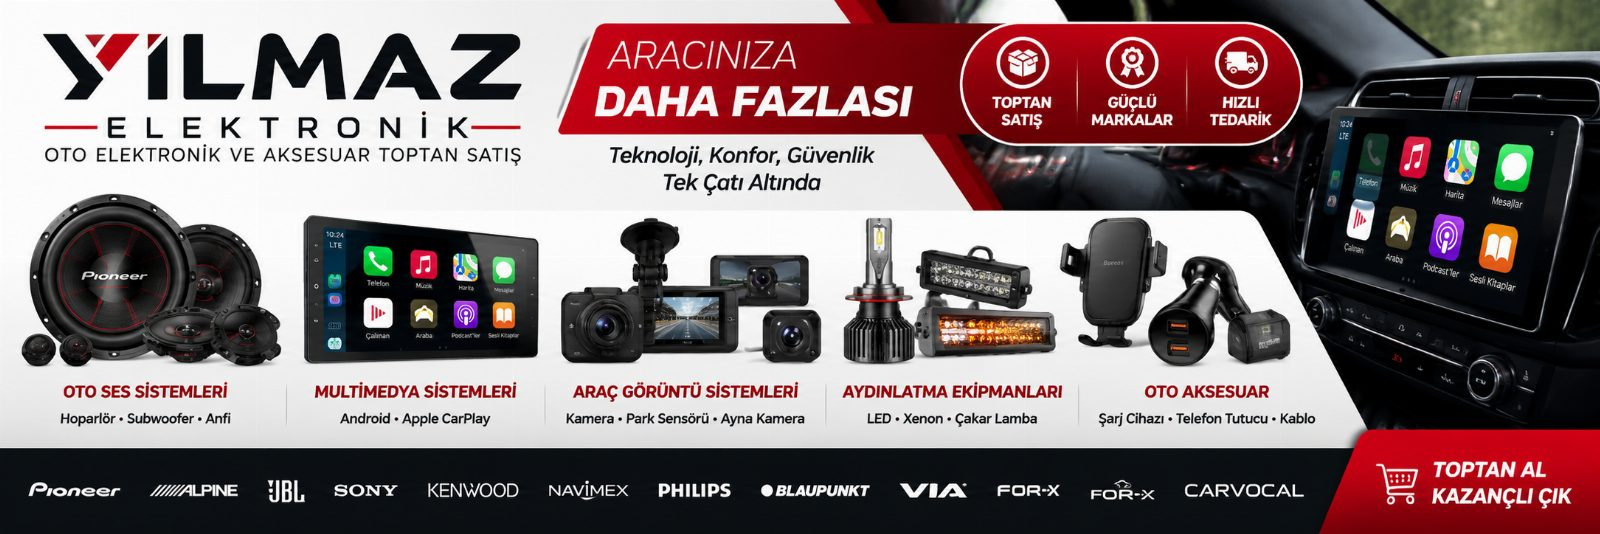
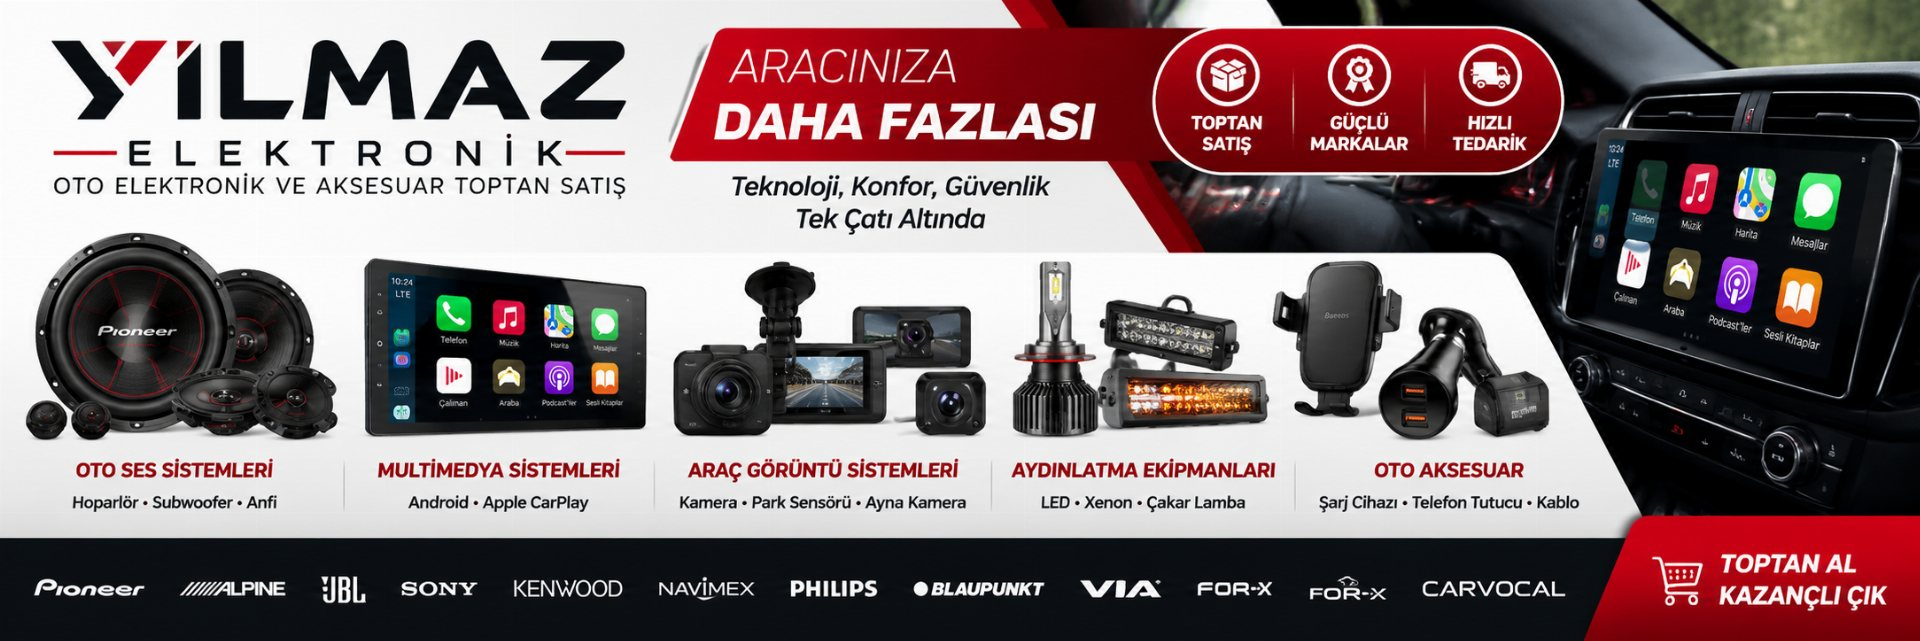
Kampanya slaytına üçüncü görsel ve sonsuz sağdan sola döngü
Banner alanı sayfa genişliğini dolduruyor; üç kampanya görseli durmadan kayıyor. Üstte Yılmaz Elektronik yazısı stacked logo olarak görünür.

diff --git a/assets/css/app.css b/assets/css/app.css
@@ -50,10 +50,49 @@ button, input, select, textarea { font: inherit; }
   align-items: center;
   padding: 10px 0;
 }
-.logo { display: flex; align-items: center; flex-shrink: 0; min-width: 210px; }
-.logo-mark { display: flex; flex-direction: row; align-items: baseline; gap: 8px; white-space: nowrap; line-height: 1; }
-.logo-mark b { font-size: 26px; letter-spacing: .04em; font-style: normal; color: #fff; font-weight: 800; }
-.logo-mark i { font-size: 22px; color: #e10600; font-style: normal; font-weight: 800; letter-spacing: .08em; }
+.logo {
+  display: flex;
+  align-items: center;
+  gap: 10px;
+  flex-shrink: 0;
+  min-width: 168px;
+  color: #fff;
+}
+.logo-badge {
+  width: 42px;
+  height: 42px;
+  border-radius: 50%;
+  background: #e10600;
+  color: #fff;
+  display: grid;
+  place-items: center;
+  font-weight: 800;
+  font-size: 20px;
+  letter-spacing: 0;
+  flex-shrink: 0;
+}
+.logo-mark {
+  display: flex;
+  flex-direction: column;
+  justify-content: center;
+  gap: 2px;
+  line-height: 1;
+}
+.logo-mark strong {
+  font-size: 20px;
+  letter-spacing: .14em;
+  font-style: normal;
+  color: #fff !important;
+  -webkit-text-fill-color: #fff;
+  font-weight: 800;
+}
+.logo-mark em {
+  font-size: 11px;
+  color: #e10600;
+  font-style: normal;
+  font-weight: 800;
+  letter-spacing: .18em;
+}
 .search {
   display: flex; background: #fff; border-radius: 999px; overflow: hidden; border: 0;
 }
@@ -93,31 +132,39 @@ button, input, select, textarea { font: inherit; }
 }
 .nav-inner .on, .nav-inner a:hover { background: rgba(255,255,255,.12); }
 
-.hero { margin: 14px auto; width: min(1180px, calc(100% - 24px)); }
+.hero {
+  width: 100%;
+  margin: 0 0 18px;
+  background: #0b0b12;
+}
 .hero-pop {
   position: relative;
   width: 100%;
   overflow: hidden;
-  border-radius: 14px;
-  background: #fff;
-  box-shadow: var(--shadow);
+  border-radius: 0;
+  background: #0b0b12;
+  height: clamp(200px, 34vw, 520px);
 }
 .hero-track {
   display: flex;
+  height: 100%;
   width: 100%;
-  transition: transform .7s ease-in-out;
+  transition: transform .8s ease-in-out;
+  will-change: transform;
 }
 .hero-slide {
   flex: 0 0 100%;
   width: 100%;
+  height: 100%;
   margin: 0;
   display: block;
 }
 .hero-slide img {
   width: 100%;
-  height: auto;
+  height: 100%;
   display: block;
   object-fit: cover;
+  object-position: center center;
 }
 .cat-strip { display: grid; grid-template-columns: repeat(4, 1fr); gap: 12px; margin: 8px auto 22px; }
 .cat-tile {
@@ -229,14 +276,14 @@ textarea { min-height: 80px; }
 footer.site { margin-top: 28px; padding: 24px 0 12px; color: #9aa3b2; font-size: 13px; text-align: center; }
 
 @media (max-width: 900px) {
-  .hero, .grid, .detail, .brands, .admin-hero, .head-inner, .cat-strip { grid-template-columns: 1fr 1fr; }
+  .grid, .detail, .brands, .admin-hero, .head-inner, .cat-strip { grid-template-columns: 1fr 1fr; }
   .head-inner { grid-template-columns: 1fr auto; }
   .search { grid-column: 1 / -1; }
   .topbar { display: none; }
   .grid { grid-template-columns: 1fr 1fr; }
-  .hero { grid-template-columns: 1fr; }
-  .logo-mark b { font-size: 20px; }
-  .logo-mark i { font-size: 16px; }
+  .logo-mark strong { font-size: 16px; }
+  .logo-mark em { font-size: 10px; }
+  .logo-badge { width: 36px; height: 36px; font-size: 16px; }
   .logo { min-width: 0; }
   .nav-inner { flex-wrap: wrap; overflow: visible; }
   .nav-inner button { flex: 1 1 25%; font-size: 11px; padding: 8px 4px; }

diff --git a/assets/js/app.js b/assets/js/app.js
@@ -75,20 +75,22 @@ function productCard(p) {
 
 function viewHome() {
   const campaigns = [
-    { img: APP.base + '/assets/img/banners/kampanya.jpg', href: '#/home' },
-    { img: APP.base + '/assets/img/banners/kampanya2.jpg', href: '#/home' },
+    { img: APP.base + '/assets/img/banners/kampanya.jpg' },
+    { img: APP.base + '/assets/img/banners/kampanya2.jpg' },
+    { img: APP.base + '/assets/img/banners/kampanya3.jpg' },
   ];
+  const slides = campaigns.concat(campaigns[0]);
   const catImg = (slug) => APP.base + '/assets/img/cats/' + slug + '.png';
   return `
-    <div class="hero wrap">
+    <section class="hero" aria-label="Kampanyalar">
       <div class="hero-pop" id="heroPop">
         <div class="hero-track" id="heroTrack">
-          ${campaigns.map((c) => `<a class="hero-slide" href="${c.href}">
+          ${slides.map((c) => `<div class="hero-slide">
             <img src="${c.img}" alt="Yılmaz Elektronik kampanya">
-          </a>`).join('')}
+          </div>`).join('')}
         </div>
       </div>
-    </div>
+    </section>
     <div class="wrap"><div class="section-title"><h2>Kategoriler</h2></div></div>
     <div class="cat-strip wrap">
       ${state.cats.map((c) => `<button class="cat-tile" onclick="location.hash='#/kategori/${c.slug}'"><img src="${catImg(c.slug)}" alt=""><span>${c.name}</span></button>`).join('')}
@@ -286,6 +288,7 @@ function bindView(page) {
 }
 
 let heroTimer = null;
+let heroOnEnd = null;
 function startHeroRotate() {
   if (heroTimer) {
     clearInterval(heroTimer);
@@ -294,12 +297,27 @@ function startHeroRotate() {
   const track = $('#heroTrack');
   const slides = $$('.hero-slide');
   if (!track || slides.length < 2) return;
+  if (heroOnEnd) track.removeEventListener('transitionend', heroOnEnd);
+  const last = slides.length - 1;
   let i = 0;
-  const show = (n) => {
-    i = (n + slides.length) % slides.length;
-    track.style.transform = 'translateX(-' + (i * 100) + '%)';
+  const apply = (n, instant) => {
+    if (instant) {
+      track.style.transition = 'none';
+      track.style.transform = 'translateX(-' + (n * 100) + '%)';
+      void track.offsetHeight;
+      track.style.transition = '';
+    } else {
+      track.style.transition = '';
+      track.style.transform = 'translateX(-' + (n * 100) + '%)';
+    }
+    i = n;
   };
-  heroTimer = setInterval(() => show(i + 1), 4500);
+  heroOnEnd = (e) => {
+    if (e.target !== track) return;
+    if (i >= last) apply(0, true);
+  };
+  track.addEventListener('transitionend', heroOnEnd);
+  heroTimer = setInterval(() => apply(i + 1, false), 4200);
 }
 
 function bindChrome() {

diff --git a/sw.js b/sw.js
@@ -2,14 +2,14 @@ const BASE = self.location.pathname.replace(/\/sw\.js$/, '') || '';
 
 self.addEventListener('install', (event) => {
   event.waitUntil(
-    caches.open('yilmaz-v2').then((cache) =>
+    caches.open('yilmaz-v3').then((cache) =>
       cache.addAll([
         BASE + '/',
         BASE + '/index.php',
         BASE + '/admin.php',
-        BASE + '/assets/css/app.css?v=3',
-        BASE + '/assets/js/app.js?v=3',
-        BASE + '/assets/js/admin.js?v=3',
+        BASE + '/assets/css/app.css?v=6',
+        BASE + '/assets/js/app.js?v=6',
+        BASE + '/assets/js/admin.js?v=4',
         BASE + '/assets/img/icon-192.png',
         BASE + '/assets/img/icon-512.png',
         BASE + '/manifest.webmanifest',
@@ -21,7 +21,7 @@ self.addEventListener('install', (event) => {
 
 self.addEventListener('activate', (event) => {
   event.waitUntil(
-    caches.keys().then((keys) => Promise.all(keys.filter((k) => k !== 'yilmaz-v2').map((k) => caches.delete(k)))).then(() => self.clients.claim())
+    caches.keys().then((keys) => Promise.all(keys.filter((k) => k !== 'yilmaz-v3').map((k) => caches.delete(k)))).then(() => self.clients.claim())
   );
 });
 
@@ -36,7 +36,7 @@ self.addEventListener('fetch', (event) => {
   event.respondWith(
     fetch(req).then((res) => {
       const copy = res.clone();
-      caches.open('yilmaz-v2').then((c) => c.put(req, copy)).catch(() => {});
+      caches.open('yilmaz-v3').then((c) => c.put(req, copy)).catch(() => {});
       return res;
     }).catch(() => caches.match(req).then((r) => r || caches.match(BASE + '/')))
   );

diff --git a/index.php b/index.php
@@ -25,7 +25,7 @@ $js = asset('assets/js/app.js');
   <link rel="apple-touch-icon" href="<?= htmlspecialchars($apple) ?>">
   <link rel="preconnect" href="https://fonts.googleapis.com">
   <link href="https://fonts.googleapis.com/css2?family=Manrope:wght@500;700;800&display=swap" rel="stylesheet">
-  <link rel="stylesheet" href="<?= htmlspecialchars($css) ?>?v=5">
+  <link rel="stylesheet" href="<?= htmlspecialchars($css) ?>?v=6">
 </head>
 <body>
   <div class="topbar"><div class="topbar-inner">
@@ -35,7 +35,8 @@ $js = asset('assets/js/app.js');
   <header class="head">
     <div class="head-inner">
       <a class="logo" href="<?= htmlspecialchars(base_url()) ?>">
-        <span class="logo-mark"><b>YILMAZ</b><i>ELEKTRONİK</i></span>
+        <span class="logo-badge" aria-hidden="true">Y</span>
+        <span class="logo-mark"><strong>YILMAZ</strong><em>ELEKTRONİK</em></span>
       </a>
       <form class="search" id="searchForm">
         <input id="q" placeholder="Aramak istediğin ürünü yaz, kolayca bul!">
@@ -65,6 +66,6 @@ $js = asset('assets/js/app.js');
       admin: <?= json_encode($admin) ?>
     };
   </script>
-  <script src="<?= htmlspecialchars($js) ?>?v=5"></script>
+  <script src="<?= htmlspecialchars($js) ?>?v=6"></script>
 </body>
 </html>

diff --git a/admin.php b/admin.php
@@ -24,12 +24,15 @@ $js = asset('assets/js/admin.js');
   <link rel="apple-touch-icon" href="<?= htmlspecialchars($apple) ?>">
   <link rel="preconnect" href="https://fonts.googleapis.com">
   <link href="https://fonts.googleapis.com/css2?family=Manrope:wght@500;700;800&display=swap" rel="stylesheet">
-  <link rel="stylesheet" href="<?= htmlspecialchars($css) ?>?v=5">
+  <link rel="stylesheet" href="<?= htmlspecialchars($css) ?>?v=6">
 </head>
 <body>
   <header class="head">
     <div class="head-inner" style="grid-template-columns:1fr auto">
-      <a class="logo" href="<?= htmlspecialchars($home) ?>"><span class="logo-mark"><b>YILMAZ</b><i>ELEKTRONİK</i></span></a>
+      <a class="logo" href="<?= htmlspecialchars($home) ?>">
+        <span class="logo-badge" aria-hidden="true">Y</span>
+        <span class="logo-mark"><strong>YILMAZ</strong><em>ELEKTRONİK</em></span>
+      </a>
       <div class="head-actions">
         <button class="icon-btn" onclick="go('siparis')">Sipariş</button>
         <button class="icon-btn" onclick="go('ekle')">Ürün ekle</button>
